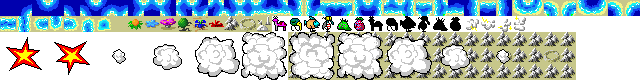
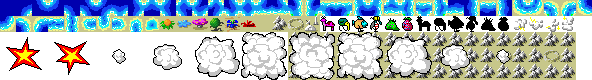
Fixed weird world map building/visualisation

diff --git a/helper.js b/helper.js
@@ -87,7 +87,7 @@ const placeholder = Object.freeze({
 	type: SURV_MAP.PLACEHOLDER
 });
 
-const correct_world_tile = Object.freeze([0, 30, 2, 30, 29, 38, 29, 38, 1, 21, 8, 21, 29, 38, 29, 38, 28, 41, 17, 41, 37, 45, 37, 45, 28, 41, 17, 41, 37, 45, 37, 45, 4, 20, 5, 20, 18, 34, 18, 34, 7, 26, 14, 26, 18, 34, 18, 34, 28, 41, 17, 41, 37, 45, 37, 45, 28, 41, 17, 41, 37, 45, 37, 45, 31, 39, 22, 39, 42, 46, 42, 46, 19, 35, 27, 35, 42, 46, 42, 46, 36, 43, 32, 43, 44, 47, 44, 47, 36, 43, 32, 43, 44, 47, 44, 47, 31, 39, 22, 39, 42, 46, 42, 46, 19, 35, 27, 35, 42, 46, 42, 46, 36, 43, 32, 43, 44, 47, 44, 47, 36, 43, 32, 43, 44, 47, 44, 47, 3, 30, 9, 30, 23, 38, 23, 38, 6, 21, 13, 21, 23, 38, 23, 38, 16, 41, 24, 41, 33, 45, 33, 45, 16, 41, 24, 41, 33, 45, 33, 45, 10, 20, 11, 20, 25, 34, 25, 34, 12, 26, 15, 26, 25, 34, 25, 34, 16, 41, 24, 41, 33, 45, 33, 45, 16, 41, 24, 41, 33, 45, 33, 45, 31, 39, 22, 39, 42, 46, 42, 46, 19, 35, 27, 35, 42, 46, 42, 46, 36, 43, 32, 43, 44, 47, 44, 47, 36, 43, 32, 43, 44, 47, 44, 47, 31, 39, 22, 39, 42, 46, 42, 46, 19, 35, 27, 35, 42, 46, 42, 46, 36, 43, 32, 43, 44, 47, 44, 47, 36, 43, 32, 43, 44, 47, 44, 47]);
+const correct_world_tile = Object.freeze([0, 30, 2, 30, 29, 38, 29, 38, 1, 21, 8, 21, 29, 38, 29, 38, 28, 40, 17, 40, 37, 44, 37, 44, 28, 40, 17, 40, 37, 44, 37, 44, 4, 20, 5, 20, 18, 34, 18, 34, 7, 26, 14, 26, 18, 34, 18, 34, 28, 40, 17, 40, 37, 44, 37, 44, 28, 40, 17, 40, 37, 44, 37, 44, 31, 39, 22, 39, 41, 45, 41, 45, 19, 35, 27, 35, 41, 45, 41, 45, 36, 42, 32, 42, 43, 46, 43, 46, 36, 42, 32, 42, 43, 46, 43, 46, 31, 39, 22, 39, 41, 45, 41, 45, 19, 35, 27, 35, 41, 45, 41, 45, 36, 42, 32, 42, 43, 46, 43, 46, 36, 42, 32, 42, 43, 46, 43, 46, 3, 30, 9, 30, 23, 38, 23, 38, 6, 21, 13, 21, 23, 38, 23, 38, 16, 40, 24, 40, 33, 44, 33, 44, 16, 40, 24, 40, 33, 44, 33, 44, 10, 20, 11, 20, 25, 34, 25, 34, 12, 26, 15, 26, 25, 34, 25, 34, 16, 40, 24, 40, 33, 44, 33, 44, 16, 40, 24, 40, 33, 44, 33, 44, 31, 39, 22, 39, 41, 45, 41, 45, 19, 35, 27, 35, 41, 45, 41, 45, 36, 42, 32, 42, 43, 46, 43, 46, 36, 42, 32, 42, 43, 46, 43, 46, 31, 39, 22, 39, 41, 45, 41, 45, 19, 35, 27, 35, 41, 45, 41, 45, 36, 42, 32, 42, 43, 46, 43, 46, 36, 42, 32, 42, 43, 46, 43, 46]);
 
 
 function random_element(arr) {

diff --git a/world.js b/world.js
@@ -40,7 +40,7 @@ function World() {
 	this.hygro_bar_dim = [24, 82];
 	this.temp_bar_offset = [604, 112];
 	this.temp_bar_dim = [2, 76];
-	this.minispec_soffset = [272, 16];
+	this.minispec_soffset = [320, 16];
 
 	this.dim = [28, 28]; // In tiles
 	// CONST_END
@@ -940,11 +940,11 @@ World.prototype.find_tile = function(height, y) {
 
 	let temp = game.temp + (y - this.dim[1] / 2) * 3 - height + 50;
 	if(temp < 0) temp = 0;
-	if(temp > 100) temp = 100;
+	else if(temp > 100) temp = 100;
 
 	let humid = game.humid - height + 50;
 	if(humid < 0) humid = 0;
-	if(humid > 100) humid = 100;
+	else if(humid > 100) humid = 100;
 
 	let delta = Infinity;
 	let tile = 0;
@@ -1052,10 +1052,14 @@ World.prototype.redraw_wm_part = function(x, y, show_spec=true) {
 		tile = this.coast_tile(x, y);
 	}
 	else {
-		tile = game.world_map[y][x] + 47;
+		tile = game.world_map[y][x] + 46;
 	}
 
-	const soffset = [(tile % 41) * this.tile_dim[0], Math.floor(tile / 40) * this.tile_dim[0]];
+	const soffset = [(tile % 37) * this.tile_dim[0], Math.floor(tile / 37) * this.tile_dim[0]];
+
+	if(36 < tile && tile < 46) {
+		console.log(tile, soffset);
+	}
 
 	ctx.drawImage(this.map_pics,
 		soffset[0], soffset[1],

diff --git a/ranking.js b/ranking.js
@@ -246,7 +246,7 @@ Ranking.prototype.next_phase = function() {
 		this.sprites = [];
 		for(let i = 0; i < 6; i++) {
 			this.sprites.push(
-				new Sprite(this.pics, [64, 64], 0, [0, 0], [[0, 0]]); // TODO: Added the right sprite offsets and frames for each species
+				new Sprite(this.pics, [64, 64], 0, [0, 0], [[0, 0]]) // TODO: Add the right sprite offsets and frames for each species
 			);
 		}
 

diff --git a/actions.js b/actions.js
@@ -459,7 +459,7 @@ Electro.prototype.update = function() {
 
 	if(this.frame === 4) { // TODO RESEARCH: Which frame?
 		this.sprites[sprite_pos] = new Sprite(this.character.url, [64, 64], anim_delays.electro, this.character.anims.zapped.soffset, this.character.anims.zapped.frames);
-		break;
+		return;
 	}
 
 	this.finished = this.sprites[!sprite_pos].finished;

diff --git a/index.html b/index.html
@@ -16,6 +16,7 @@
 <input id="debug6">
 <input id="debug7">
 <input id="debug8">
+<br>
 
 <script src="i18n.js"></script>
 <script src="sprite_positions.js"></script>
